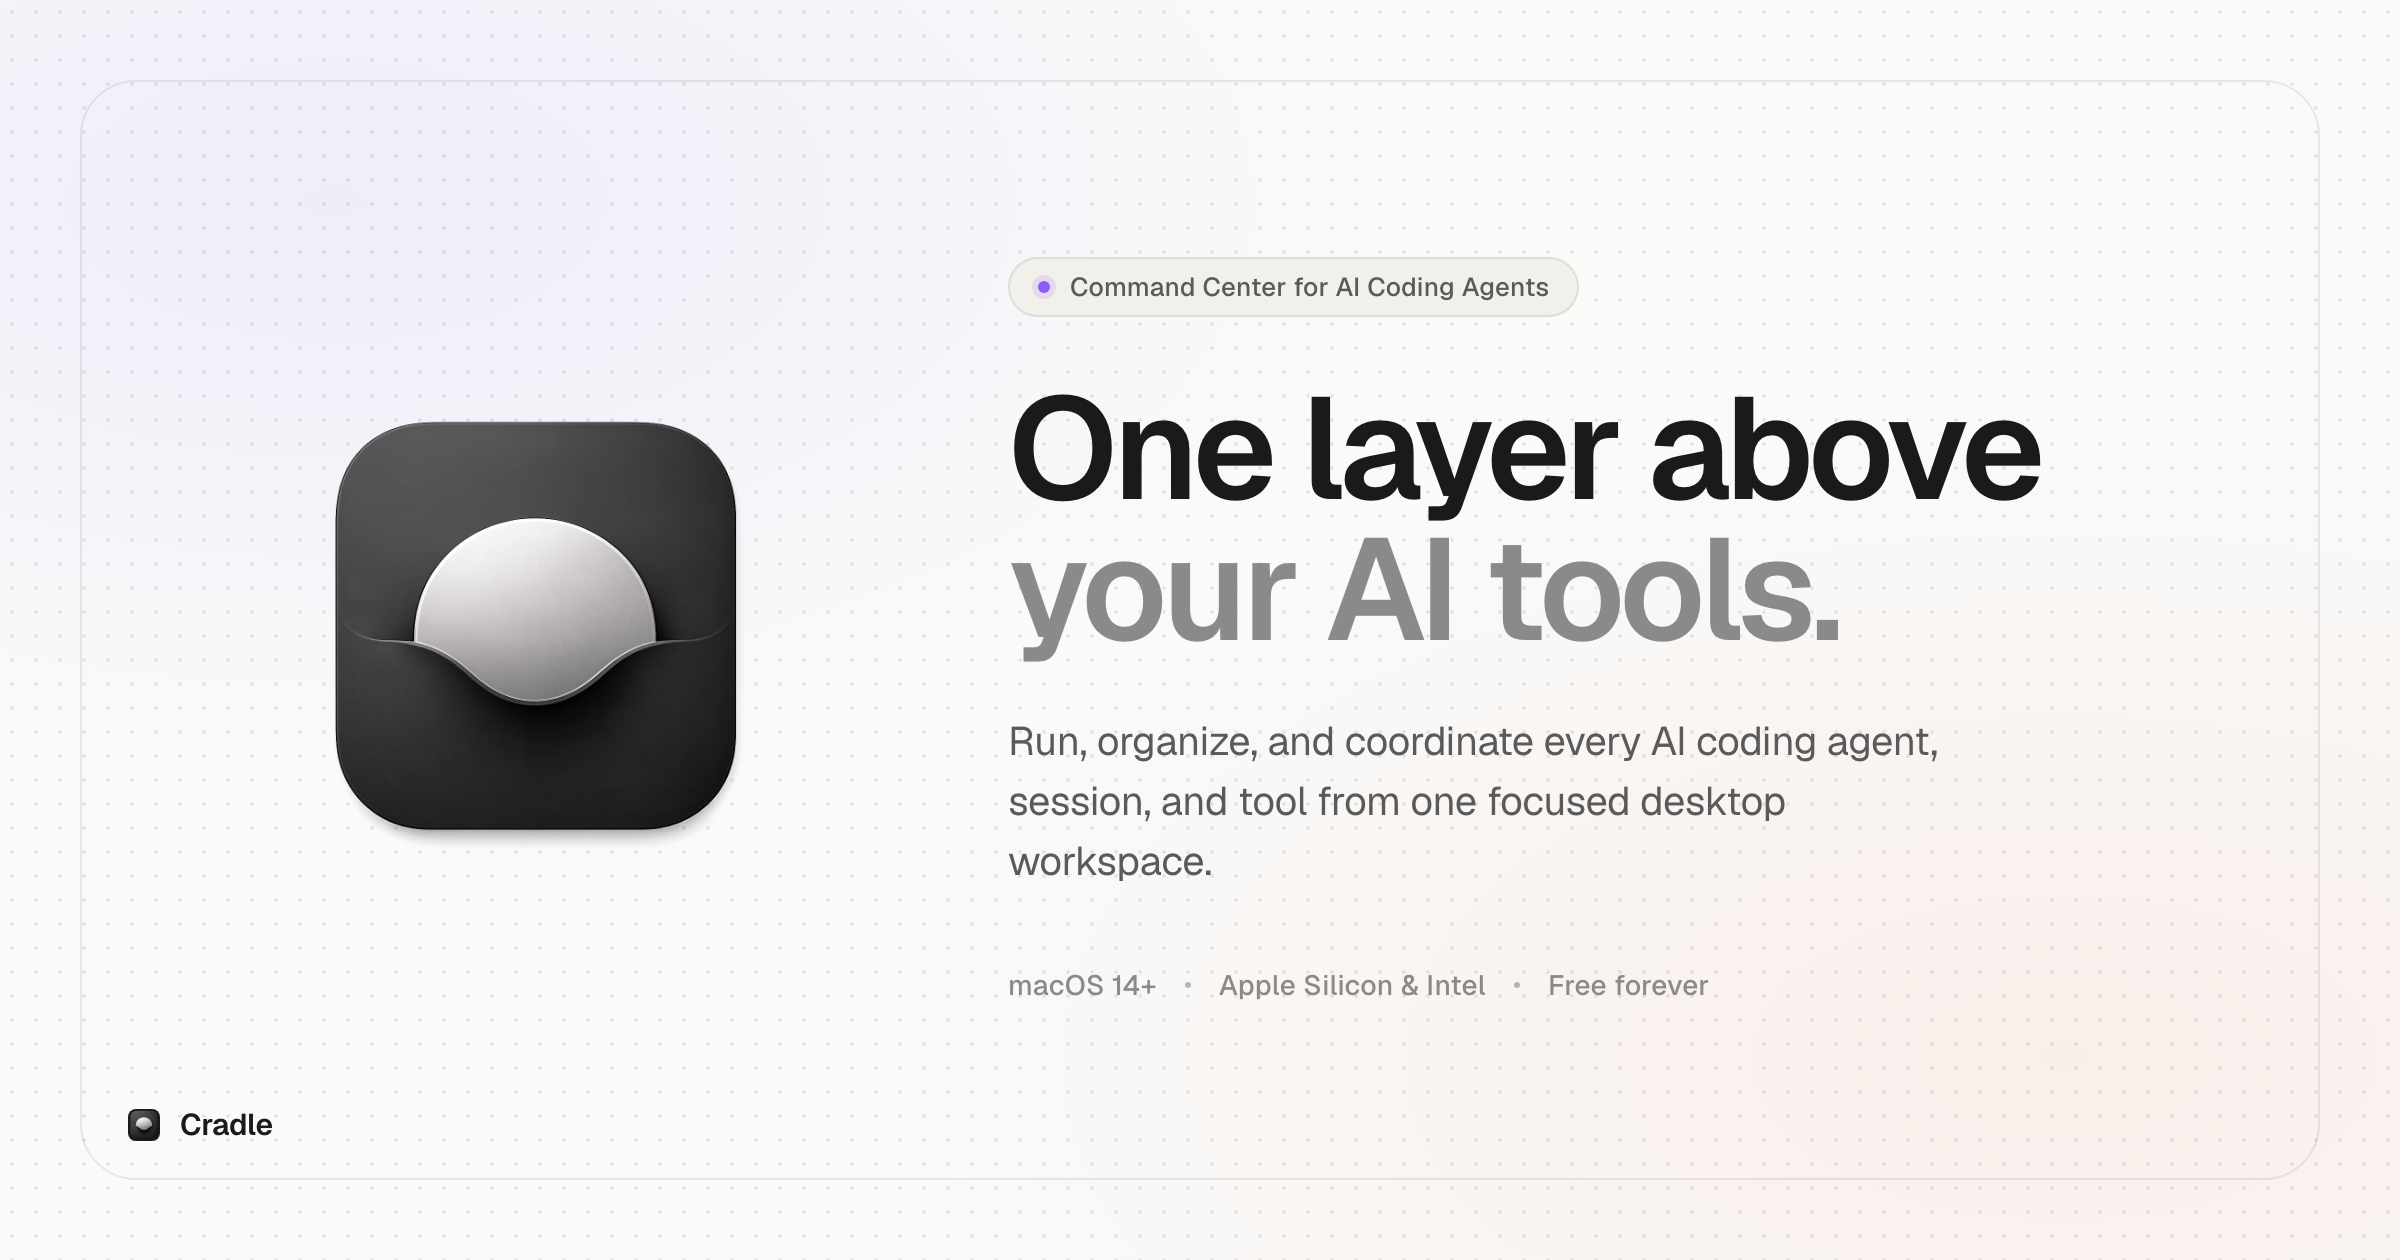
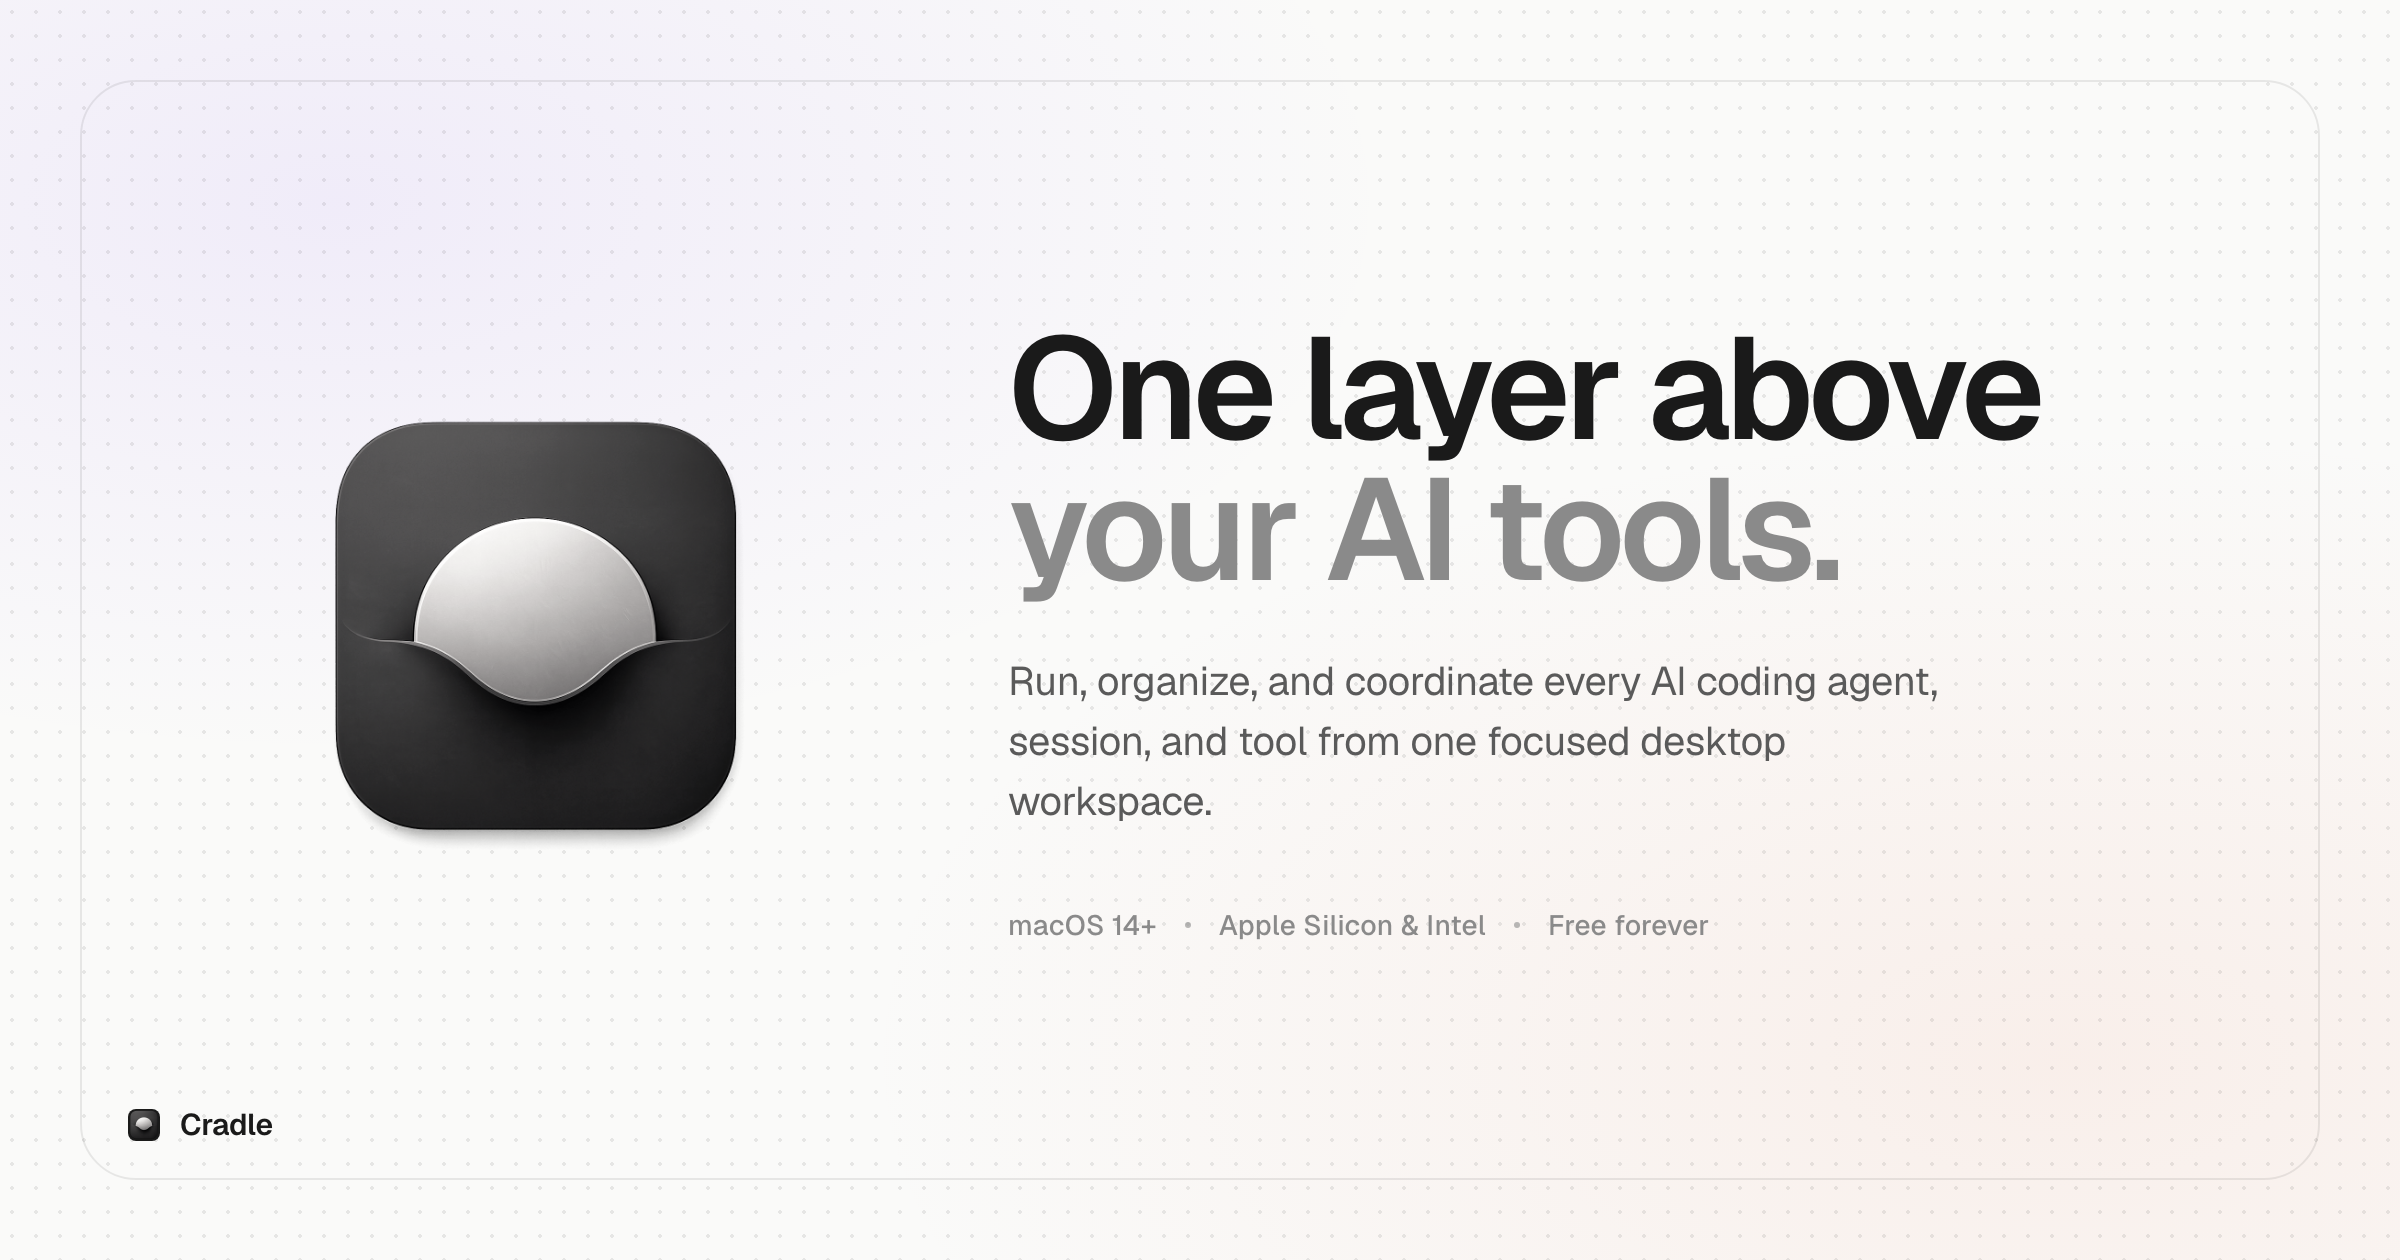
chore: update og image

diff --git a/apps/landing/og-image.html b/apps/landing/og-image.html
@@ -138,8 +138,8 @@
       margin-bottom: 30px;
       border: 1px solid var(--border);
       border-radius: 999px;
-      background: var(--bg-subtle);
-      color: var(--text-secondary);
+      background: var(--bg);
+      color: var(--text);
       font-size: 13px;
       font-weight: 500;
       letter-spacing: 0.01em;
@@ -227,10 +227,9 @@
     </section>
 
     <section class="copy">
-      <div class="eyebrow">
-        <span class="dot"></span>
+      <!-- <div class="eyebrow">
         Command Center for AI Coding Agents
-      </div>
+      </div> -->
       <h1>One layer above<br /><span class="muted">your AI tools.</span></h1>
       <p class="sub">Run, organize, and coordinate every AI coding agent, session, and tool from one focused desktop workspace.</p>
       <div class="meta">